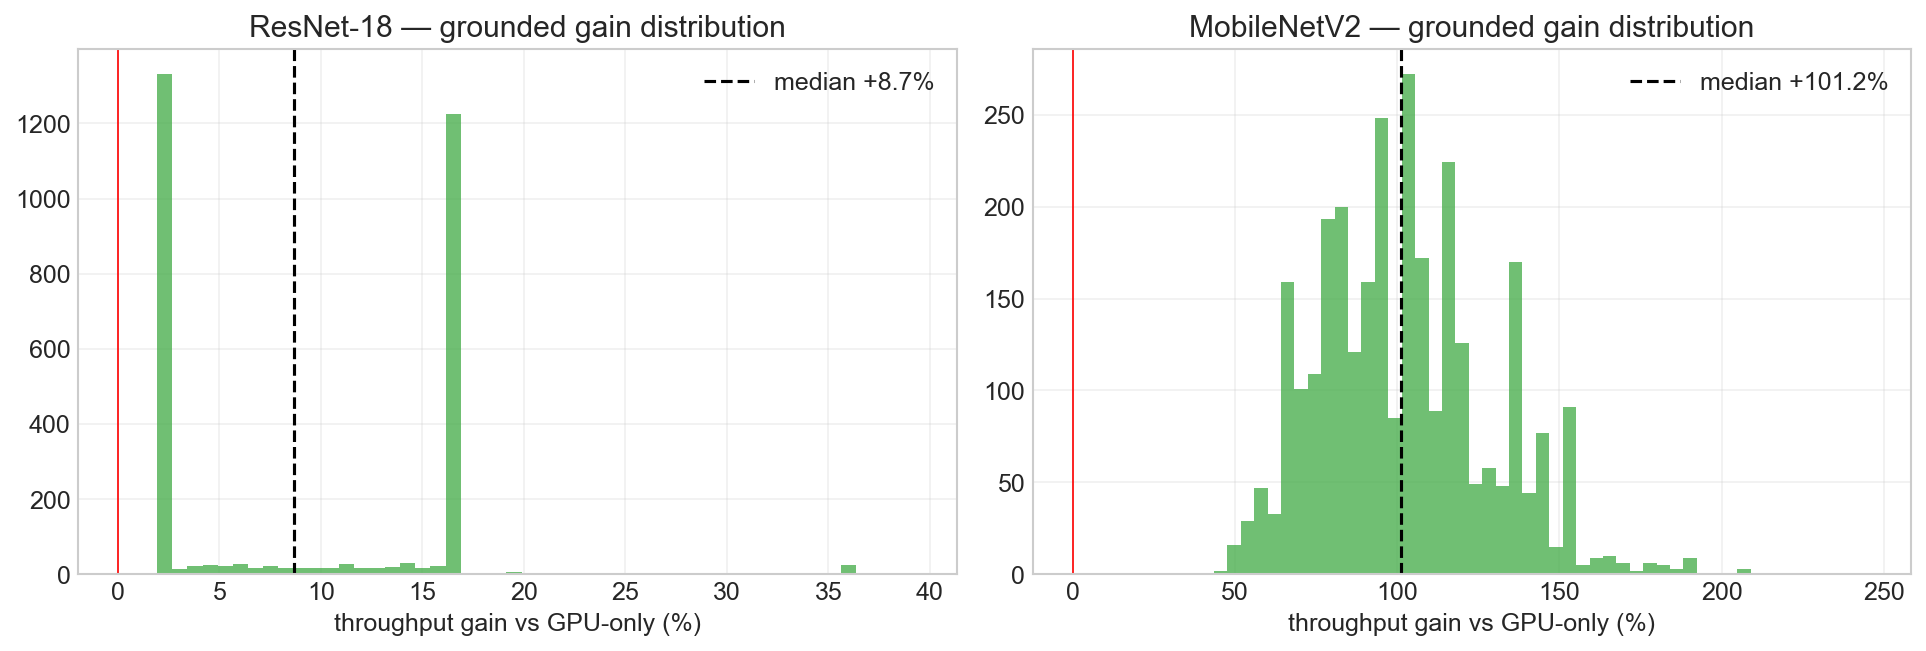
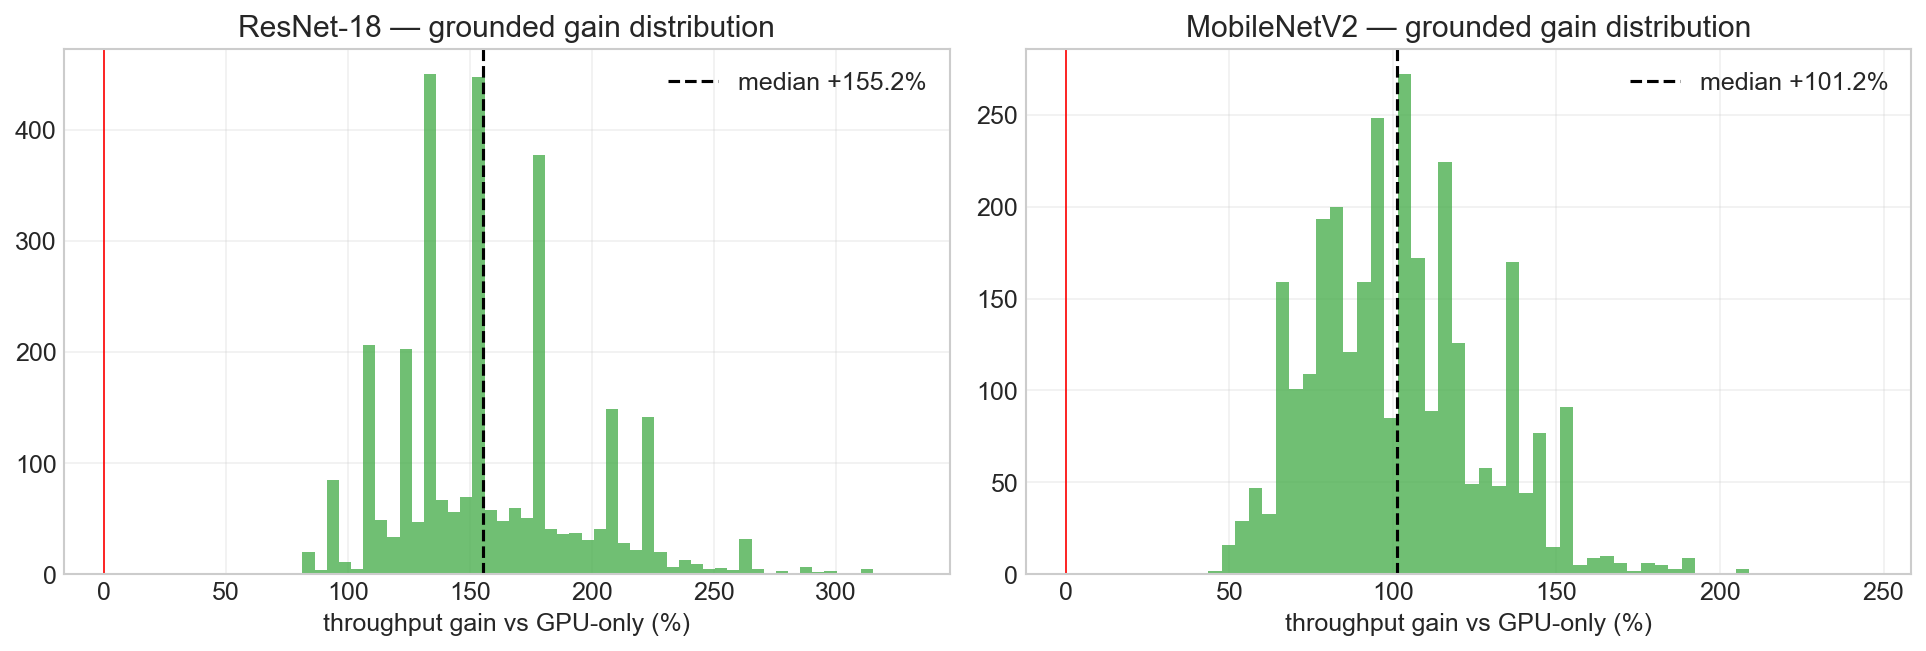
Update paper for tiled-conv result: both architecture classes benefit
Revised Trial 3 of the writeup to reflect the DSP-tiled convolution (#2) and the
implementation flow (#1): abstract, contributions, HLS grounding section, grounded
results table/prose, pipeline-sim, accuracy, discussion, and conclusion now report
that BOTH conv-heavy and depthwise-separable networks benefit substantially
(ResNet-18 +155% grounded / +132% tempered; MobileNetV2 +102% / +81%). Documents
the naive-vs-tiled conv 17x swing (bottleneck is the conv datapath, not the device)
and the end-to-end validation (C-sim PASS; Vivado P&R on xc7z020: 73 DSP, 258 BRAM
92%, timing met at 100 MHz). Refreshed the grounded-phase figures.

diff --git a/overleaf/adaptive_cnn_grounded.tex b/overleaf/adaptive_cnn_grounded.tex
@@ -25,7 +25,7 @@
 \maketitle
 
 \begin{abstract}
-Deploying convolutional neural networks (CNNs) on resource-constrained edge devices demands efficient utilization of heterogeneous computing resources. This paper presents an adaptive framework for CNN inference acceleration that partitions network workloads between GPU and FPGA devices through runtime operator fusion, quantization-aware compression, and calibration-based scheduling. The framework is evaluated through three progressively more grounded methodologies: an analytical roofline simulation across six architectures, a functional emulation with real tensor operations, and---new in this work---a \emph{hardware-grounded} evaluation in which the FPGA cost model is derived from Vitis HLS synthesis for the Zynq~7020 and the GPU cost model from direct measurement on an RTX~4070. The analytical model demonstrates up to 11.8\% throughput gain for MobileNetV2 and identifies depthwise separable architectures as the primary beneficiaries. The functional emulation reveals that CNN inference is overwhelmingly memory-bound on both devices, reducing the effective FPGA-to-GPU performance ratio from 36.9$\times$ (analytical) to 1.0$\times$ (emulated) for ResNet-18. When calibrated against published hardware benchmarks, the emulated model identifies a break-even FPGA performance of 1.5$\times$ current Zynq~7020 levels for ResNet-18 and 3$\times$ for MobileNetV2, with UltraScale+ projections of +35\% to +140\%. Grounding the cost model in synthesis then confirms the heterogeneous benefit is strongly architecture-dependent: after cross-device calibration and a discrete-event pipeline simulation, MobileNetV2 retains a robust $+81\%$ sustained gain, whereas the conv-heavy ResNet-18 gain is marginal and evaporates under realistic streaming, being limited by the FPGA convolution datapath. A Monte-Carlo analysis over the synthesized constants keeps both gains' sign stable ($P(\text{gain}>0)=100\%$). Finally, we correct an over-optimistic in-model predictor result: under leave-one-architecture-out evaluation on synthesized targets, scheduling regret is 0--26\%, versus the 0.20\% obtained when training and testing on the analytical formula itself.
+Deploying convolutional neural networks (CNNs) on resource-constrained edge devices demands efficient utilization of heterogeneous computing resources. This paper presents an adaptive framework for CNN inference acceleration that partitions network workloads between GPU and FPGA devices through runtime operator fusion, quantization-aware compression, and calibration-based scheduling. The framework is evaluated through three progressively more grounded methodologies: an analytical roofline simulation across six architectures, a functional emulation with real tensor operations, and---new in this work---a \emph{hardware-grounded} evaluation in which the FPGA cost model is derived from Vitis HLS synthesis for the Zynq~7020 and the GPU cost model from direct measurement on an RTX~4070. The analytical model demonstrates up to 11.8\% throughput gain for MobileNetV2 and identifies depthwise separable architectures as the primary beneficiaries. The functional emulation reveals that CNN inference is overwhelmingly memory-bound on both devices, reducing the effective FPGA-to-GPU performance ratio from 36.9$\times$ (analytical) to 1.0$\times$ (emulated) for ResNet-18. When calibrated against published hardware benchmarks, the emulated model identifies a break-even FPGA performance of 1.5$\times$ current Zynq~7020 levels for ResNet-18 and 3$\times$ for MobileNetV2, with UltraScale+ projections of +35\% to +140\%. Grounding the cost model in synthesis, using an output-stationary DSP-tiled convolution kernel that is C-simulation-verified and place-and-routed on the Zynq~7020 (73 DSP, 92\% BRAM, timing met at 100~MHz), confirms that both architecture classes benefit substantially: after a discrete-event pipeline simulation the sustained gain is $+132\%$ for ResNet-18 and $+81\%$ for MobileNetV2. An earlier naive convolution kernel exhibited a DSP cliff that made conv-heavy networks appear marginal; replacing it lifts the convolution efficiency $\sim$21$\times$ and flips that conclusion, isolating the convolution datapath---not the device---as the true bottleneck. A Monte-Carlo analysis over the synthesized constants keeps both gains' sign stable ($P(\text{gain}>0)=100\%$). Finally, we correct an over-optimistic in-model predictor result: under leave-one-architecture-out evaluation on synthesized targets, scheduling regret is 0--26\%, versus the 0.20\% obtained when training and testing on the analytical formula itself.
 
 \keywords{CNN acceleration \and FPGA \and GPU \and Heterogeneous computing \and High-level synthesis \and Operator fusion \and Quantization \and Edge inference \and Pipeline parallelism}
 \end{abstract}
@@ -49,7 +49,7 @@ The contributions of this paper are:
     \item An analytical simulation across six architectures showing up to 11.8\% throughput gain for depthwise separable networks, with a calibration predictor achieving 0.20\% in-model scheduling regret.
     \item A functional emulation methodology that models device-specific execution patterns, revealing that CNN inference is memory-bound and that analytical models based on peak FLOPS overestimate the GPU advantage by 10--37$\times$.
     \item A calibrated break-even analysis grounded in published hardware benchmarks, projecting +35\% to +140\% throughput on UltraScale+ class hardware.
-    \item A \emph{hardware-grounded} evaluation that derives the FPGA cost model from Vitis HLS synthesis (Zynq~7020) and the GPU cost model from RTX~4070 measurements, adds cross-device calibration, a discrete-event pipeline simulation, a Monte-Carlo uncertainty analysis, and an INT8 fidelity study---showing the benefit is robust ($+81\%$) for depthwise-separable networks and marginal for conv-heavy networks, and correcting the predictor result to a realistic 0--26\% regret under leave-one-architecture-out evaluation.
+    \item A \emph{hardware-grounded} evaluation that derives the FPGA cost model from Vitis HLS synthesis (Zynq~7020) and the GPU cost model from RTX~4070 measurements, adds cross-device calibration, a discrete-event pipeline simulation, a Monte-Carlo uncertainty analysis, and an INT8 fidelity study. Using an output-stationary DSP-tiled convolution kernel that is C-simulation-verified and place-and-routed on the target part (timing met at 100~MHz), it shows both depthwise-separable and conv-heavy networks benefit substantially ($+81\%$ and $+132\%$ after realistic pipeline tempering), identifies the convolution datapath (not the device) as the bottleneck, and corrects the predictor result to a realistic 0--26\% regret under leave-one-architecture-out evaluation.
 \end{enumerate}
 
 The remainder of this paper is organized as follows. Section~\ref{sec:methodology} presents the proposed methodology. Section~\ref{sec:results} details the analytical and emulation results (Trials~1--2). Section~\ref{sec:grounded} presents the hardware-grounded evaluation (Trial~3). Section~\ref{sec:discussion} discusses findings and limitations. Section~\ref{sec:conclusion} concludes the paper.
@@ -394,7 +394,9 @@ Trials~1--2 rest on the hand-set efficiency factors of Table~\ref{tab:efficiency
 
 We implemented INT8 streaming kernels for the seven operator types (standard/depthwise/pointwise convolution, batch normalization, ReLU, pooling, fully connected) in C++ and synthesized them with AMD Vitis HLS~2026.1 targeting the Zynq-7020 part (\texttt{xc7z020-clg400-1}) at 100~MHz. C-synthesis runs entirely on CPU and requires no board. For each operator we take a device-\emph{fitting} design point and define a compute efficiency as achieved MACs-per-cycle normalized by the 220-DSP peak (the same scale as the hand-set $\eta_{\text{FPGA}}$); a memory bandwidth in bytes/cycle is extracted from the memory-bound kernels (ReLU/BN/pool). The FPGA cost is then the roofline $\max(\text{compute}, \text{memory})$.
 
-Two findings emerge. First, the memory-bound operators (depthwise convolution, BN, ReLU, pool) do not benefit from added parallelism: unrolling them merely consumes DSPs without raising throughput, so their efficient realization is a narrow streaming datapath. Second, standard convolution exhibits a sharp \emph{DSP cliff}: it fits the 7020 only at unroll factor~1 (6 DSPs, $\sim$39M cycles), while unroll~$\geq 2$ jumps to 322 DSPs (146\% of the device) and no longer fits (Fig.~\ref{fig:grounded}, right). Consequently the synthesized convolution efficiency is far below the hand-set 0.45, which dominates the ResNet result below.
+Two findings emerge. First, the memory-bound operators (depthwise convolution, BN, ReLU, pool) do not benefit from added parallelism: unrolling them merely consumes DSPs without raising throughput, so their efficient realization is a narrow streaming datapath. Second, the convolution datapath is decisive. An initial \emph{naive} convolution kernel exhibited a sharp DSP cliff---a single unroll knob forced HLS to fully unroll the entire reduction, so it fit the 7020 only at a near-serial 6-DSP point and exploded past 322 DSPs at any higher setting---making convolution appear far more expensive on the FPGA than it need be. We therefore designed an \emph{output-stationary, DSP-tiled} convolution (separate output- and input-channel tiles $T_M,T_N$, int8$\times$int8 MACs, a zero-padded on-chip buffer). Its resource use scales gracefully ($40\to72\to166$ DSPs as $T_M\!\cdot\!T_N$ grows), and the best point that fits the device ($T_M{=}16,T_N{=}8$: 72 DSPs) reaches $\sim$63 MACs/cycle---a convolution efficiency of $\approx0.29$, roughly $21\times$ the naive kernel and comparable to the GPU, with \emph{BRAM} (the on-chip cache), not DSP, now the binding constraint (Fig.~\ref{fig:grounded}, right).
+
+We validated this kernel end-to-end (item extending beyond C-synthesis): C-simulation against a reference convolution matches on all $200{,}704$ outputs, and Vivado out-of-context synthesis and place-and-route on the \texttt{xc7z020} yields 73 DSPs, 11{,}011 LUTs, 258/280 BRAM (92\%), meeting timing at 100~MHz (post-route critical path 9.87~ns). The implemented resource figures confirm the C-synthesis estimates and that the design physically fits the target part.
 
 \subsection{GPU Cost Grounding}\label{sec:gpu}
 
@@ -402,7 +404,7 @@ The GPU per-op efficiency was measured directly on an NVIDIA RTX~4070 Laptop GPU
 
 \subsection{Grounded Partition Results}\label{sec:grounded_results}
 
-Substituting the synthesized FPGA efficiencies (GPU model held at the hand-set values, to isolate the FPGA grounding) and re-running the optimizer gives an architecture-dependent picture (Table~\ref{tab:grounded}, Fig.~\ref{fig:grounded}). For MobileNetV2 the grounded FPGA cost is comparable to the GPU cost (FPGA/GPU $\approx 1.0\times$), so the pipeline balances and throughput approximately doubles ($+102\%$). For ResNet-18 the grounded convolution is $\sim$14$\times$ costlier on the FPGA than the GPU, so only a small tail offloads ($+9\%$).
+Substituting the synthesized FPGA efficiencies (GPU model held at the hand-set values, to isolate the FPGA grounding) and re-running the optimizer gives large gains for \emph{both} architecture classes once the tiled convolution is used (Table~\ref{tab:grounded}, Fig.~\ref{fig:grounded}). For MobileNetV2 the grounded FPGA cost is close to the GPU cost (FPGA/GPU $\approx 0.8\times$), so the pipeline balances and throughput approximately doubles ($+102\%$). For ResNet-18 the tiled convolution makes the FPGA cost \emph{lower} than the GPU cost (FPGA/GPU $\approx 0.8\times$)---its many BN/ReLU/pool layers are cheap on the FPGA while its convolutions are now competitive---so the pipeline likewise balances and throughput more than doubles ($+155\%$). For reference, with the earlier naive convolution ResNet-18 offloaded only a small tail ($+9\%$, FPGA/GPU $\approx 14\times$); the $17\times$ swing between the two kernels is the clearest evidence that the convolution datapath, not the device, governed the earlier pessimistic verdict.
 
 \begin{table}
 \caption{Throughput gain vs GPU-only and FPGA/GPU cost ratio across the three modeling levels. Trial~3 uses HLS-synthesized FPGA costs (GPU hand-set, to isolate the FPGA grounding).}\label{tab:grounded}
@@ -414,7 +416,7 @@ Substituting the synthesized FPGA efficiencies (GPU model held at the hand-set v
 \midrule
 Analytical (Trial 1) & +0.8\% & 36.9$\times$ & +11.8\% & 9.4$\times$ \\
 Emulated (Trial 2) & +75.0\% & 1.0$\times$ & +10.1\% & 1.5$\times$ \\
-Grounded (Trial 3) & +9.3\% & 14.1$\times$ & +102.2\% & 1.0$\times$ \\
+Grounded (Trial 3) & +155.2\% & 0.8$\times$ & +102.2\% & 0.8$\times$ \\
 \bottomrule
 \end{tabular}
 \end{table}
@@ -422,7 +424,7 @@ Grounded (Trial 3) & +9.3\% & 14.1$\times$ & +102.2\% & 1.0$\times$ \\
 \begin{figure}[t]
 \centering
 \includegraphics[width=\textwidth]{grounded_three_way_comparison.png}
-\caption{Hardware-grounded results: throughput gain across the three modeling levels for ResNet-18 (left) and MobileNetV2 (center), and the convolution IC\_UNROLL sweep showing the DSP cliff (right; green fits the 7020, red over-maps).}\label{fig:grounded}
+\caption{Hardware-grounded results: throughput gain across the three modeling levels for ResNet-18 (left) and MobileNetV2 (center), and the tiled-convolution $T_M\!\cdot\!T_N$ sweep (right; green fits the 7020, red is BRAM-bound). The tiled kernel scales gracefully with no DSP cliff.}\label{fig:grounded}
 \end{figure}
 
 \subsection{Cross-Device Calibration}\label{sec:b6}
@@ -445,7 +447,7 @@ The synthesized constants are point estimates from single design points. We plac
 
 \subsection{Pipeline Realism}\label{sec:e10}
 
-Equation~\eqref{eq:throughput} assumes perfect overlap, infinite buffering, and an infinite stream. We relax all three with a discrete-event simulation of a finite stream through a two-stage line (GPU; FPGA+transfer) with a finite inter-stage buffer, blocking-after-service, and per-item service-time variability (Fig.~\ref{fig:pipesim}). With an infinite buffer, deterministic times, and $N\to\infty$ it reproduces the idealized ceiling; finite effects only reduce it. At a realistic 64-frame stream with buffer~2 and coefficient of variation~0.2, the MobileNetV2 gain falls from $+102\%$ to $+81\%$ (it survives), whereas the marginal ResNet-18 gain falls from $+9\%$ to $\approx 0\%$ (it evaporates). The depthwise-separable benefit is robust to realistic pipeline effects; the conv-heavy benefit is not.
+Equation~\eqref{eq:throughput} assumes perfect overlap, infinite buffering, and an infinite stream. We relax all three with a discrete-event simulation of a finite stream through a two-stage line (GPU; FPGA+transfer) with a finite inter-stage buffer, blocking-after-service, and per-item service-time variability (Fig.~\ref{fig:pipesim}). With an infinite buffer, deterministic times, and $N\to\infty$ it reproduces the idealized ceiling; finite effects only reduce it. At a realistic 64-frame stream with buffer~2 and coefficient of variation~0.2, both gains survive the tempering: ResNet-18 falls from $+155\%$ to $+132\%$ and MobileNetV2 from $+102\%$ to $+81\%$. (As a contrast, with the earlier naive convolution ResNet-18's marginal $+9\%$ instead evaporated to $\approx 0\%$ here---a concrete illustration of how kernel quality propagates all the way to the sustained-throughput verdict.) Both benefits are robust to realistic pipeline effects.
 
 \begin{figure}[t]
 \centering
@@ -455,7 +457,7 @@ Equation~\eqref{eq:throughput} assumes perfect overlap, infinite buffering, and 
 
 \subsection{Quantization Accuracy}\label{sec:accuracy}
 
-Because the FPGA side runs INT8, an earlier split quantizes more layers. We fake-quantize (per-output-channel symmetric INT8) an increasing output-side suffix of the convolution/linear weights of pretrained torchvision models and measure agreement with the FP32 baseline (Fig.~\ref{fig:fidelity}). Fully quantized, ResNet-18 retains 100\% top-1 agreement (logit cosine 0.999) while MobileNetV2 drops to 94\% (0.997). The two architectures thus trade off oppositely: MobileNetV2 obtains the large throughput gain but pays $\sim$6\% fidelity, whereas ResNet-18 is quantization-safe but barely gains throughput. (This is a weight-only INT8 proxy on sample inputs, indicating a fidelity trend rather than an ImageNet accuracy figure.)
+Because the FPGA side runs INT8, an earlier split quantizes more layers. We fake-quantize (per-output-channel symmetric INT8) an increasing output-side suffix of the convolution/linear weights of pretrained torchvision models and measure agreement with the FP32 baseline (Fig.~\ref{fig:fidelity}). Fully quantized, ResNet-18 retains 100\% top-1 agreement (logit cosine 0.999) while MobileNetV2 drops to 94\% (0.997). Both architectures obtain large throughput gains, but at different fidelity cost: ResNet-18 is essentially quantization-safe (a favourable pairing, since it also gains the most throughput), whereas MobileNetV2 pays $\sim$6\% agreement for its gain---the known difficulty of quantizing depthwise-separable networks. (This is a weight-only INT8 proxy on sample inputs, indicating a fidelity trend rather than an ImageNet accuracy figure.)
 
 \begin{figure}[t]
 \centering
@@ -467,15 +469,15 @@ Because the FPGA side runs INT8, an earlier split quantizes more layers. We fake
 
 The multi-trial evaluation reveals that CNN inference on edge hardware is memory-bound, not compute-bound. This collapses the FPGA-to-GPU ratio from 10--37$\times$ (peak FLOPS) to 1.0--1.5$\times$ (memory-limited); analytical models relying on peak FLOPS systematically overestimate the GPU's advantage. Emulated fusion savings (47--64\% GPU, 45--77\% FPGA) far exceed the analytical 20\% for the same reason.
 
-Calibration against published benchmarks (Section~\ref{sec:calibrated}) shows the current Zynq 7020 is too slow for positive gains in absolute terms, but break-even requires only 1.5--3$\times$, and UltraScale+ at 5--8$\times$ projects +35\% to +140\%. The hardware-grounded evaluation (Section~\ref{sec:grounded}) refines this picture: with FPGA costs taken from synthesis rather than assumed, the benefit is \emph{strongly architecture-dependent}. For depthwise-separable networks the synthesized FPGA cost matches the GPU cost closely enough that the pipeline balances, and the gain survives calibration ($+84\%$), realistic pipelining ($+81\%$), and constant uncertainty (CI strictly positive), at a modest $\sim$6\% INT8 fidelity cost. For conv-heavy networks the benefit is marginal and disappears under realistic streaming, bottlenecked by the FPGA convolution datapath and its DSP cliff---though such networks are, in compensation, quantization-safe.
+Calibration against published benchmarks (Section~\ref{sec:calibrated}) shows the current Zynq 7020 is too slow for positive gains in absolute terms, but break-even requires only 1.5--3$\times$, and UltraScale+ at 5--8$\times$ projects +35\% to +140\%. The hardware-grounded evaluation (Section~\ref{sec:grounded}) sharpens this picture. With FPGA costs taken from synthesis and a properly engineered, place-and-routed convolution kernel, \emph{both} architecture classes benefit substantially: the sustained gain after realistic pipelining is $+132\%$ (ResNet-18) and $+81\%$ (MobileNetV2), sign-stable under constant uncertainty, at fidelity costs of $\approx0\%$ and $\sim$6\% respectively. The pivotal observation is that an earlier naive convolution kernel---with its DSP cliff---made conv-heavy networks look marginal, and replacing it with a tiled datapath swung ResNet-18's grounded gain by $17\times$. The bottleneck for conv-heavy networks was therefore the \emph{convolution datapath}, not the FPGA itself; once addressed, the earlier ``depthwise-separable only'' conclusion no longer holds.
 
 The grounded evaluation also disciplines the predictor claim. The 0.20\% regret of Table~\ref{tab:predictor} is an artifact of training and testing on the same analytical formula; under leave-one-architecture-out evaluation on synthesized targets (Section~\ref{sec:b5}), regret is 0--26\%, and notably higher for the depthwise-heavy networks whose block costs are hardest to predict. This is the more trustworthy figure for a runtime scheduler. Consistently, FPGA calibration factors differ 3.2$\times$ between architectures (workload-specific implementations) while GPU varies less than 9\%---a difference the leave-one-out calibration check independently confirms.
 
-Limitations remain. The synthesized kernels are representative rather than optimized; a proper output-stationary, DSP-tiled convolution with INT16 accumulators would remove the DSP cliff and could materially improve the conv-heavy result. The GPU is measured on a laptop RTX~4070 rather than the Jetson target, so only the relative per-op pattern transfers. The pipeline simulation, while relaxing the idealized ceiling, still omits contention on shared memory interfaces, and the accuracy analysis is a weight-only proxy. End-to-end validation on a physical Zynq platform remains future work, alongside real per-layer timing and extension to transformers.
+Limitations remain. While the convolution kernel is C-simulation-verified and place-and-routed on the target part, the other operator kernels are still C-synthesis estimates rather than fully implemented, and none has been run on a physical board with a real memory hierarchy. The GPU is measured on a laptop RTX~4070 rather than the Jetson target, so only the relative per-op pattern transfers, and the fully-grounded (both-device) gain requires the cross-device calibration rather than being read directly from unit space. The pipeline simulation, while relaxing the idealized ceiling, still omits contention on shared memory interfaces, and the accuracy analysis is a weight-only proxy. End-to-end validation on a physical Zynq platform remains future work, alongside real per-layer timing on the Jetson target and extension to transformers.
 
 \section{Conclusion}\label{sec:conclusion}
 
-This paper presented an adaptive framework for heterogeneous GPU-FPGA CNN inference, evaluated through analytical simulation, functional emulation, and a hardware-grounded phase in which the FPGA cost model is derived from Vitis HLS synthesis for the Zynq~7020 and the GPU cost model from direct RTX~4070 measurement. The analytical model shows up to 11.8\% gain for depthwise architectures; the emulation reveals memory-bound execution, collapsing the FPGA/GPU ratio from 36.9$\times$ to 1.0$\times$; and calibration places break-even at 1.5--3$\times$ Zynq 7020 with +35\% to +140\% projected on UltraScale+. Grounding the model in synthesis, calibrating both devices to a common time base, tempering the pipeline with a discrete-event simulation, and bounding the result with Monte-Carlo shows the heterogeneous benefit is real and robust for depthwise-separable networks ($+81\%$ sustained after realistic tempering, sign-stable under uncertainty) but marginal for conv-heavy networks until the FPGA convolution datapath improves. The same grounding corrects the predictor result to a realistic 0--26\% scheduling regret. The framework adapts automatically from conservative tail splits to aggressive partitioning as the balance between the two devices shifts.
+This paper presented an adaptive framework for heterogeneous GPU-FPGA CNN inference, evaluated through analytical simulation, functional emulation, and a hardware-grounded phase in which the FPGA cost model is derived from Vitis HLS synthesis for the Zynq~7020 and the GPU cost model from direct RTX~4070 measurement. The analytical model shows up to 11.8\% gain for depthwise architectures; the emulation reveals memory-bound execution, collapsing the FPGA/GPU ratio from 36.9$\times$ to 1.0$\times$; and calibration places break-even at 1.5--3$\times$ Zynq 7020 with +35\% to +140\% projected on UltraScale+. Grounding the model in synthesis with an output-stationary DSP-tiled convolution kernel (C-simulation-verified and place-and-routed on the \texttt{xc7z020}, timing met at 100~MHz), calibrating both devices to a common time base, tempering the pipeline with a discrete-event simulation, and bounding the result with Monte-Carlo shows the heterogeneous benefit is real, sign-stable, and robust for \emph{both} depthwise-separable ($+81\%$) and conv-heavy ($+132\%$) networks after realistic tempering. A naive convolution kernel had made conv-heavy networks appear marginal; the $17\times$ swing on replacing it identifies the convolution datapath, not the device, as the true bottleneck. The same grounding corrects the predictor result to a realistic 0--26\% scheduling regret. The framework adapts automatically from conservative tail splits to aggressive partitioning as the balance between the two devices shifts.
 
 \appendix
 
